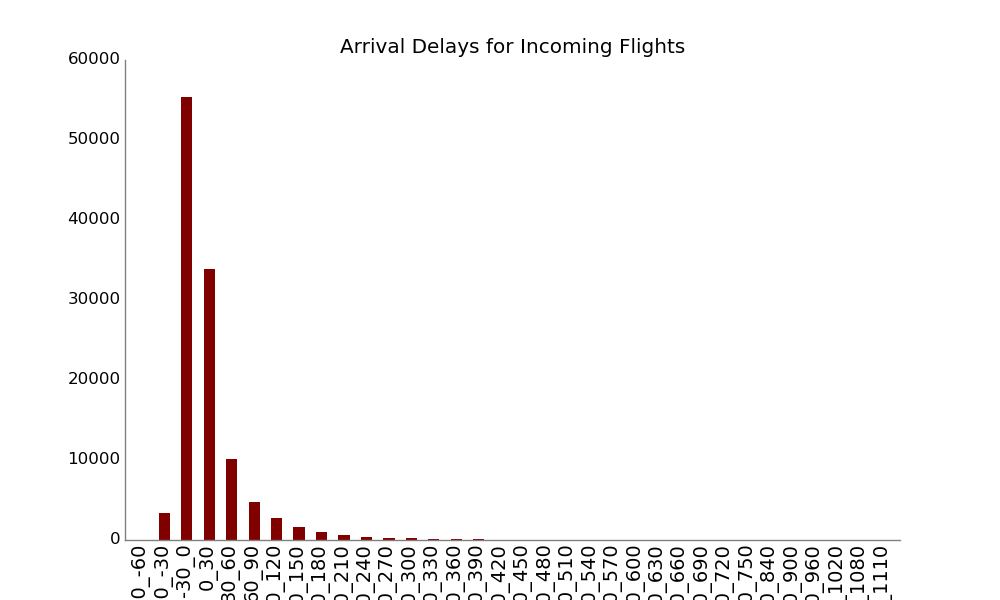
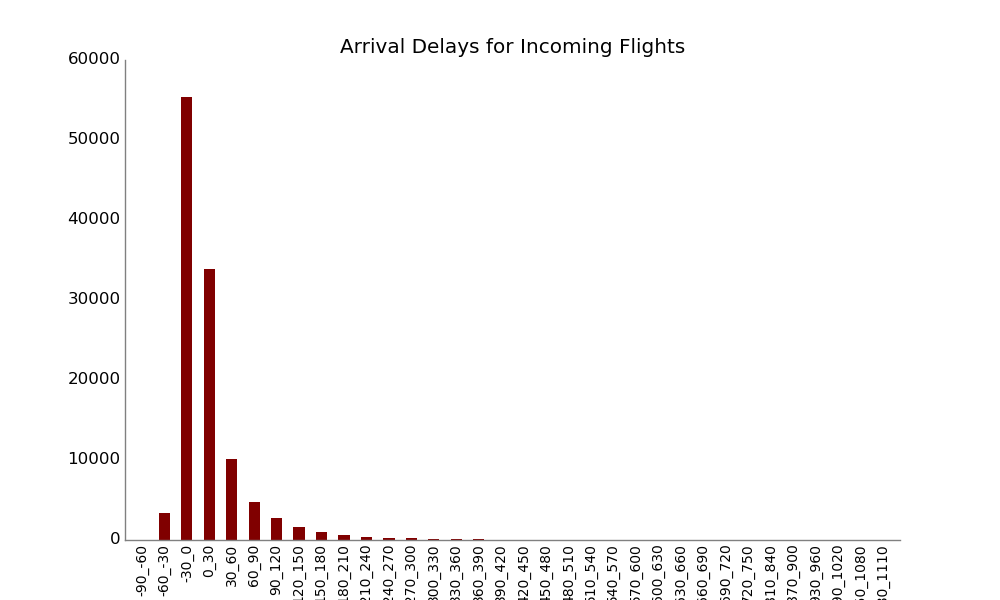
plot

Changed region(s): [[0.124, 0.9, 0.899, 1.0]]

diff --git a/PythonScripts/delay_bins_incoming/histogram.py b/PythonScripts/delay_bins_incoming/histogram.py
@@ -61,7 +61,7 @@ def main():
     
     plt.xticks( x + .25, x_labels, rotation=40)
     plt.xlim([min(x) - .5, max(x) + 1])
-    plt.setp(ax.get_xticklabels(), rotation='vertical', fontsize=14)
+    plt.setp(ax.get_xticklabels(), rotation='vertical', fontsize=10)
 
     # Hide the right and top spines
     ax.spines['right'].set_visible(False)
